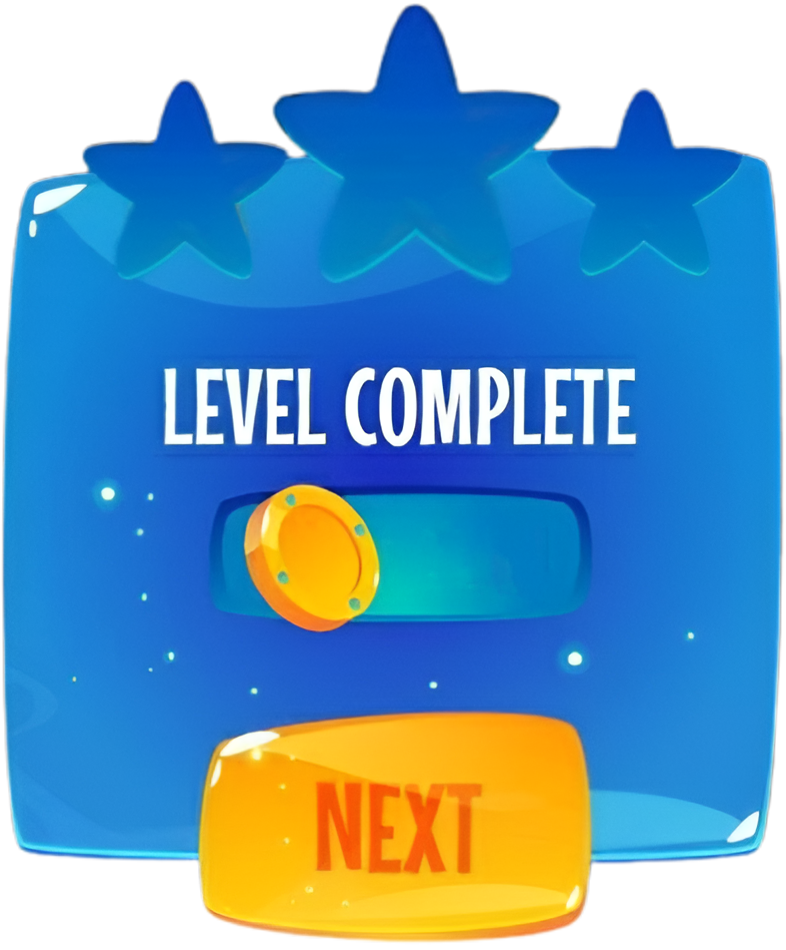
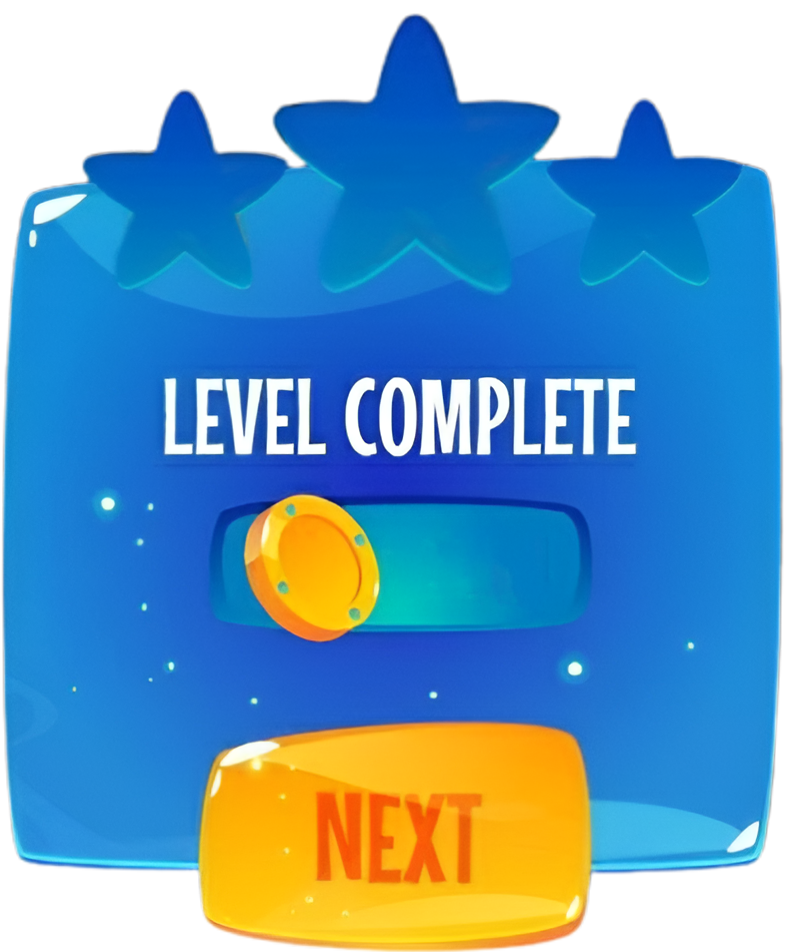
fix: calibrate star placements to exact dedicated spaces in sg.png and create game2 folder structure

diff --git a/src/components/LevelCompleteModal.jsx b/src/components/LevelCompleteModal.jsx
@@ -10,8 +10,8 @@ export default function LevelCompleteModal({ stars = 3, coins = 40, onNext }) {
 
   return (
     <div className="fixed inset-0 z-50 flex items-center justify-center p-4 bg-black/60 backdrop-blur-sm animate-pop-in select-none">
-      {/* Modal Dialog using reference asset: sg_panel.png */}
-      <div className="relative w-full max-w-[340px] sm:max-w-[390px] aspect-[786/950] drop-shadow-[0_20px_35px_rgba(0,0,0,0.6)]">
+      {/* Modal Dialog using reference asset: sg_panel.png (786 x 952) */}
+      <div className="relative w-full max-w-[340px] sm:max-w-[390px] aspect-[786/952] drop-shadow-[0_20px_35px_rgba(0,0,0,0.6)]">
         {/* Panel Artwork from materials/sg.png */}
         <img
           src="/assets/clean/sg_panel.png"
@@ -19,23 +19,23 @@ export default function LevelCompleteModal({ stars = 3, coins = 40, onNext }) {
           className="w-full h-full object-contain pointer-events-none select-none"
         />
 
-        {/* --- Gold Stars placed over the dedicated spaces in sg.png --- */}
+        {/* --- Gold Stars placed precisely over the dedicated silhouette spaces in sg.png --- */}
 
         {/* Star 1 (Left Dedicated Space) */}
         {stars >= 1 && (
           <div
             className="absolute z-20 pointer-events-none animate-star-pop"
             style={{
-              top: '4.5%',
-              left: '4.2%',
-              width: '32.5%',
+              top: '8.1%',
+              left: '7.6%',
+              width: '31.9%',
               animationDelay: '0.15s',
             }}
           >
             <img
               src="/assets/clean/star.png"
               alt="Star 1"
-              className="w-full h-auto object-contain -rotate-[12deg] drop-shadow-[0_4px_8px_rgba(0,0,0,0.35)]"
+              className="w-full h-auto object-contain drop-shadow-[0_4px_8px_rgba(0,0,0,0.35)]"
             />
           </div>
         )}
@@ -45,9 +45,9 @@ export default function LevelCompleteModal({ stars = 3, coins = 40, onNext }) {
           <div
             className="absolute z-30 pointer-events-none animate-star-pop"
             style={{
-              top: '-2.8%',
-              left: '28.5%',
-              width: '43%',
+              top: '0%',
+              left: '32.1%',
+              width: '41.0%',
               animationDelay: '0.35s',
             }}
           >
@@ -64,16 +64,16 @@ export default function LevelCompleteModal({ stars = 3, coins = 40, onNext }) {
           <div
             className="absolute z-20 pointer-events-none animate-star-pop"
             style={{
-              top: '4.5%',
-              right: '4.2%',
-              width: '32.5%',
+              top: '9.0%',
+              left: '66.7%',
+              width: '31.9%',
               animationDelay: '0.55s',
             }}
           >
             <img
               src="/assets/clean/star.png"
               alt="Star 3"
-              className="w-full h-auto object-contain rotate-[12deg] drop-shadow-[0_4px_8px_rgba(0,0,0,0.35)]"
+              className="w-full h-auto object-contain drop-shadow-[0_4px_8px_rgba(0,0,0,0.35)]"
             />
           </div>
         )}
@@ -82,8 +82,8 @@ export default function LevelCompleteModal({ stars = 3, coins = 40, onNext }) {
         <div
           className="absolute z-20 flex items-center justify-center font-black text-white text-2xl sm:text-3xl md:text-4xl tracking-wider select-none pointer-events-none"
           style={{
-            top: '52%',
-            left: '46%',
+            top: '52.5%',
+            left: '45%',
             width: '28%',
             height: '11%',
             textShadow: '0 3px 6px rgba(0,0,0,0.8), 0 0 10px rgba(0,0,0,0.5)',
@@ -102,10 +102,10 @@ export default function LevelCompleteModal({ stars = 3, coins = 40, onNext }) {
           title="Next Level"
           className="absolute z-30 rounded-2xl sm:rounded-3xl cursor-pointer transition-transform duration-150 transform hover:scale-105 active:scale-95 focus:outline-none"
           style={{
-            bottom: '2.5%',
-            left: '23%',
-            width: '54%',
-            height: '15%',
+            top: '76.2%',
+            left: '25.5%',
+            width: '49.6%',
+            height: '23.8%',
           }}
         >
           <span className="sr-only">NEXT</span>

diff --git a/src/games/new-game/Game.jsx b/src/games/new-game/Game.jsx
@@ -1,0 +1,18 @@
+import React from 'react';
+
+/**
+ * Placeholder for Game 2
+ * Ready to receive assets and gameplay logic for the next educational game.
+ */
+export default function NewGame() {
+  return (
+    <div className="w-full h-full flex flex-col items-center justify-center text-white select-none">
+      <h1 className="text-4xl font-extrabold mb-4 font-lilita drop-shadow-md">
+        Game 2 Coming Soon!
+      </h1>
+      <p className="text-lg text-white/80 max-w-md text-center">
+        Place your design assets and components in this folder to build the next educational experience.
+      </p>
+    </div>
+  );
+}

diff --git a/src/games/README.md b/src/games/README.md
@@ -1,0 +1,10 @@
+# Multi-Game Directory Structure
+
+This folder contains games for the Kolomi educational platform:
+
+- **Game 1**: `Healthy vs Unhealthy` (current primary game in `src/App.jsx` and `src/components/`)
+- **Game 2**: `src/games/new-game/` (dedicated space prepared for the next educational game)
+
+To add new assets for Game 2:
+1. Place source artwork in `materials/game2/` or `public/assets/game2/`.
+2. Implement components inside `src/games/new-game/`.
